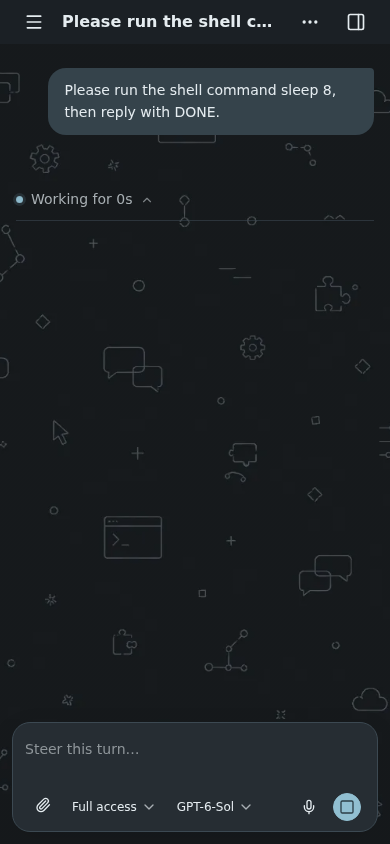
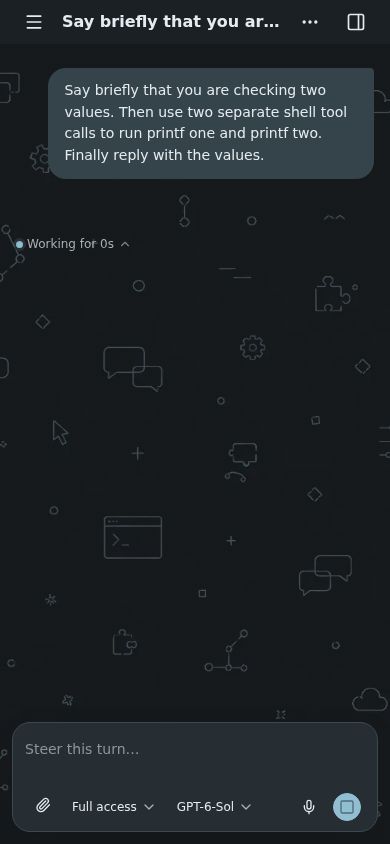
Make turn activity an incidental transcript row

diff --git a/web/src/components/mux-sdk-chat.ts b/web/src/components/mux-sdk-chat.ts
@@ -316,15 +316,14 @@ export class MuxSDKChat extends LitElement {
     .block.assistant { position:relative; margin-bottom:calc(var(--ui-control-sm) + var(--ui-space-8)); --ui-text:var(--ui-chat-assistant-text); padding:var(--ui-space-5) var(--ui-space-6) var(--ui-space-4); border:1px solid var(--ui-border); border-radius:var(--ui-radius-sm) var(--ui-radius-2xl) var(--ui-radius-2xl) var(--ui-radius-2xl); background:var(--ui-chat-assistant-surface); color:var(--ui-chat-assistant-text); box-shadow:0 2px 8px color-mix(in srgb,black 8%,transparent); }
     .block.assistant:has(mux-chat-visualization[mode="wide"]) { max-width:min(var(--ui-chat-visualization-wide-width),100%); }
     .block.work { margin-bottom:var(--ui-space-7); }
-    .work-disclosure { overflow:hidden; border:1px solid color-mix(in srgb,var(--ui-border) 80%,transparent); border-radius:var(--ui-radius-lg); background:color-mix(in srgb,var(--ui-surface-raised) 90%,transparent); box-shadow:0 1px 3px color-mix(in srgb,black 5%,transparent); }
     .work-stream { display:flex; align-items:center; gap:var(--ui-space-4); min-height:var(--ui-chat-activity-row-height); color:var(--ui-text-muted); font-size:var(--ui-text-lg); }
     .work-stream .activity-label { overflow:hidden; text-overflow:ellipsis; white-space:nowrap; }
     .work-stream .pulse { width:var(--ui-chat-pulse-size); height:var(--ui-chat-pulse-size); flex:none; border-radius:50%; background:var(--ui-accent); animation:activity-pulse 1.35s ease-in-out infinite; }
-    .work-disclosure > summary { display:flex; align-items:center; gap:var(--ui-space-4); min-height:var(--ui-chat-activity-row-height); padding:var(--ui-space-2) var(--ui-space-5); color:var(--ui-text-muted); font-size:var(--ui-text-lg); list-style:none; cursor:pointer; }
-    .work-disclosure > summary:hover { background:color-mix(in srgb,var(--ui-accent) 5%,transparent); }
-    .work-disclosure[open]:has(.work-items) > summary { border-bottom:1px solid color-mix(in srgb,var(--ui-border) 65%,transparent); }
-    .work-disclosure .activity-label { flex:none; color:var(--ui-text); font-weight:600; }
-    .work-disclosure .activity-count { margin-left:auto; color:var(--ui-text-muted); font-size:var(--ui-text-sm); white-space:nowrap; }
+    .work-disclosure > summary { display:inline-flex; align-items:center; gap:var(--ui-space-2); min-height:var(--ui-chat-activity-row-height); padding:0 var(--ui-space-2); margin-left:calc(-1 * var(--ui-space-2)); border-radius:var(--ui-radius-sm); color:var(--ui-text-muted); font-size:var(--ui-text-sm); list-style:none; cursor:pointer; }
+    .work-disclosure > summary:hover { background:color-mix(in srgb,var(--ui-surface-raised) 55%,transparent); color:var(--ui-text); }
+    .work-disclosure .activity-label { flex:none; font-weight:500; }
+    .work-disclosure .activity-count { color:var(--ui-text-muted); white-space:nowrap; }
+    .work-disclosure .activity-count::before { content:'·'; margin-right:var(--ui-space-2); }
     .work-disclosure .activity-preview { min-width:0; overflow:hidden; text-overflow:ellipsis; white-space:nowrap; }
     .work-disclosure > summary > svg { flex:none; }
     .work-disclosure .pulse { width:var(--ui-chat-pulse-size); height:var(--ui-chat-pulse-size); flex:none; border-radius:50%; background:var(--ui-accent); box-shadow:0 0 0 3px color-mix(in srgb,var(--ui-accent) 14%,transparent); animation:activity-pulse 1.35s ease-in-out infinite; }
@@ -334,7 +333,7 @@ export class MuxSDKChat extends LitElement {
     .work-disclosure > summary:focus-visible { outline:2px solid var(--ui-accent); outline-offset:2px; border-radius:var(--ui-radius-sm); }
     .work-disclosure > summary svg { opacity:.7; transition:transform .15s ease; }
     .work-disclosure[open] > summary svg { transform:rotate(180deg); }
-    .work-items { padding:var(--ui-space-4) var(--ui-space-5) var(--ui-space-2); }
+    .work-items { margin-left:var(--ui-space-1); padding:var(--ui-space-3) 0 var(--ui-space-1) var(--ui-space-5); border-left:1px solid color-mix(in srgb,var(--ui-border) 75%,transparent); }
     .interjection-entry { margin:var(--ui-space-4) 0 var(--ui-space-5); }
     .work-item { margin-bottom:var(--ui-space-3); }
     .voice-work { display:flex; align-items:flex-start; gap:var(--ui-space-4); margin:var(--ui-space-3) 0; color:var(--ui-text-muted); font-size:var(--ui-text-lg); line-height:1.5; }
@@ -1564,13 +1563,13 @@ export class MuxSDKChat extends LitElement {
       const last = blocks[blocks.length - 1];
       if (last?.kind === 'assistant' && last.channel !== 'voice' && !last.done) blocks[blocks.length - 1] = { ...last, kind:'commentary', done:true };
       const existing = blocks.findIndex(b => b.kind === 'tool' && b.id === event.toolId && !b.done);
-      if (existing >= 0) blocks[existing] = { ...blocks[existing], name:event.name || blocks[existing].name, input:event.raw ?? blocks[existing].input, summary:event.summary || blocks[existing].summary };
+      if (existing >= 0) blocks[existing] = { ...blocks[existing], lightweight:false, name:event.name || blocks[existing].name, input:event.raw ?? blocks[existing].input, summary:event.summary || blocks[existing].summary };
       else blocks.push({ key:++this.nextBlockKey, turn:this.currentTurn, kind:'tool', text:'Running', name:event.name || 'Tool', id:event.toolId, input:event.raw, summary:event.summary });
     }
     else if (event.type === 'tool.completed') {
       markStart(this.currentTurn);
       let index = -1; for (let i = blocks.length - 1; i >= 0; i--) if (blocks[i].kind === 'tool' && blocks[i].id === event.toolId && !blocks[i].done) { index = i; break; }
-      if (index >= 0) blocks[index] = { ...blocks[index], done:true, text:event.failed ? 'Failed' : 'Completed', failed:event.failed, summary:event.summary || blocks[index].summary,
+      if (index >= 0) blocks[index] = { ...blocks[index], done:true, lightweight:false, text:event.failed ? 'Failed' : 'Completed', failed:event.failed, summary:event.summary || blocks[index].summary,
         output:event.raw };
       else blocks.push({ key:++this.nextBlockKey, turn:this.currentTurn, kind:'tool', text:event.failed ? 'Failed' : 'Completed', name:event.name || 'Tool', id:event.toolId, done:true, failed:event.failed, summary:event.summary,
         output:event.raw });
@@ -2098,7 +2097,7 @@ export class MuxSDKChat extends LitElement {
       return html`<div class="work-item">Waiting for your answer.</div>`;
     // Lightweight message history intentionally omits raw thought and tool
     // payloads. Do not display its flattened activity summary as a timeline.
-    if (this.loadingDetails) return html`<div class="work-item">Loading work details…</div>`;
+    if (this.loadingDetails) return nothing;
     if (!this.turnFinished.has(turn)) return nothing;
     if (!this.detailsLoaded) return html`<div class="work-item">Work details are not loaded. <mux-ui-button size="small" variant="secondary" @click=${() => void this.loadDetails()}>Load work details</mux-ui-button></div>`;
     return html`<div class="work-item">No work details were reported.</div>`;
